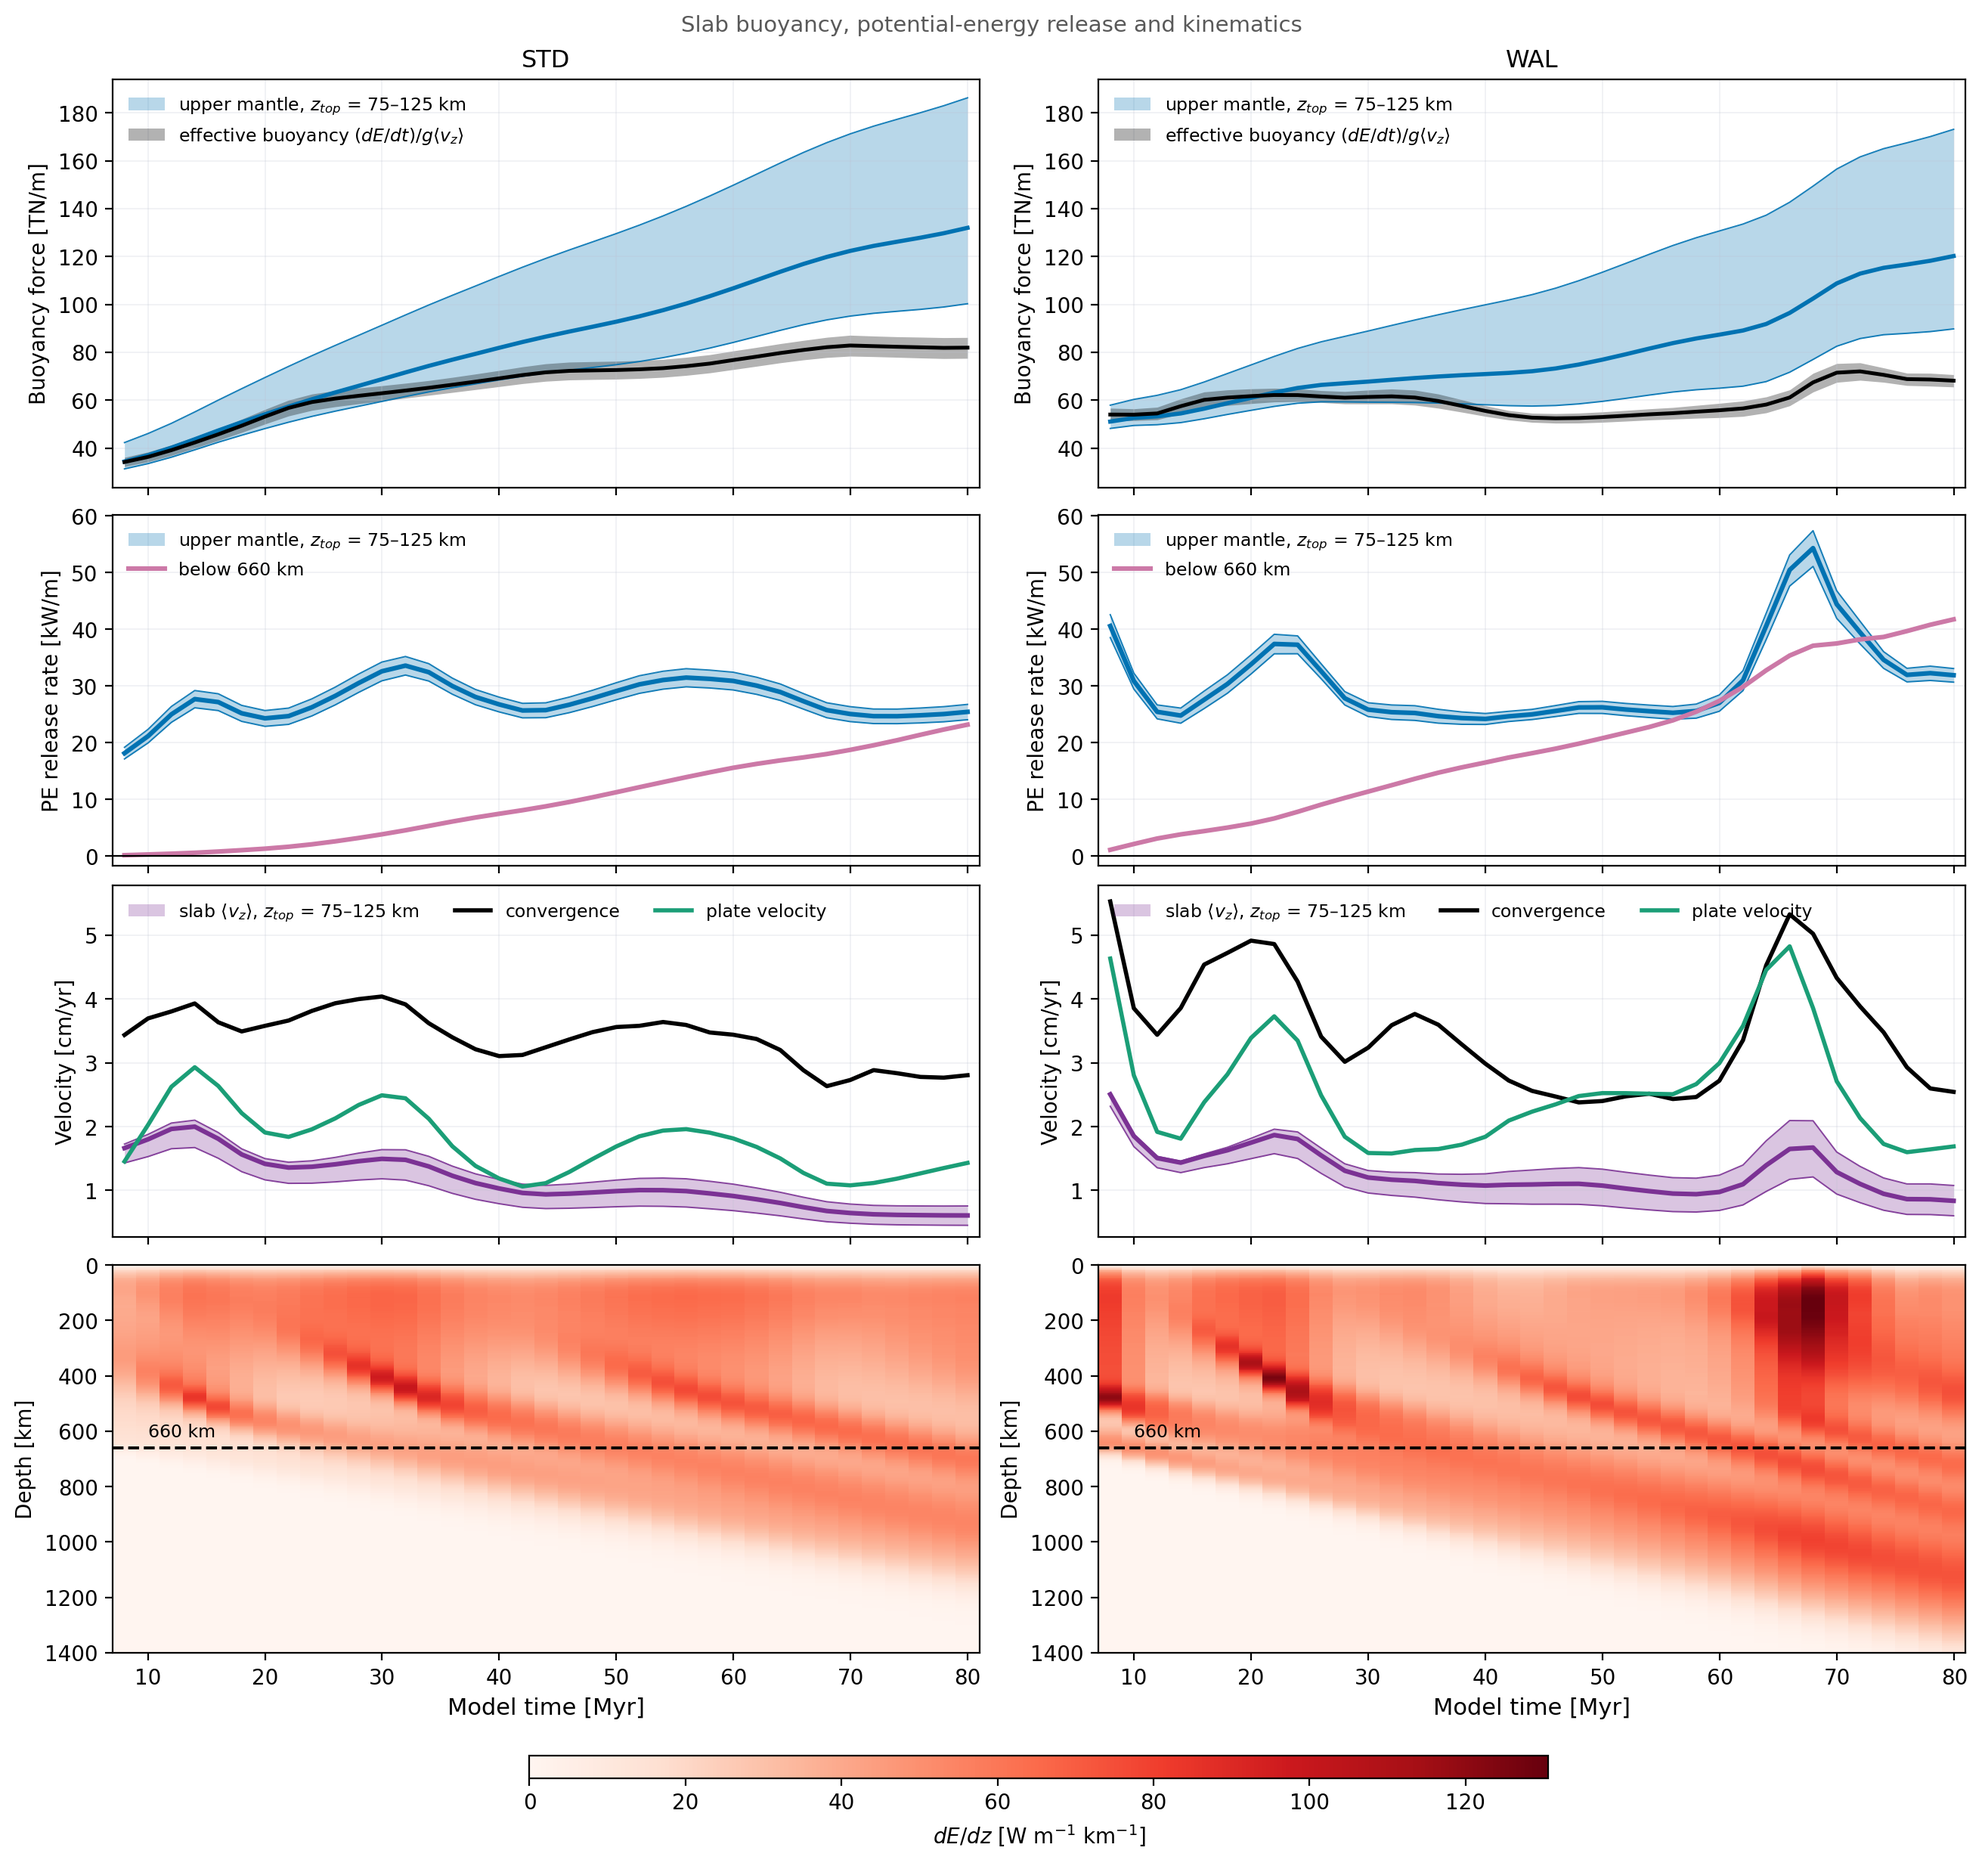
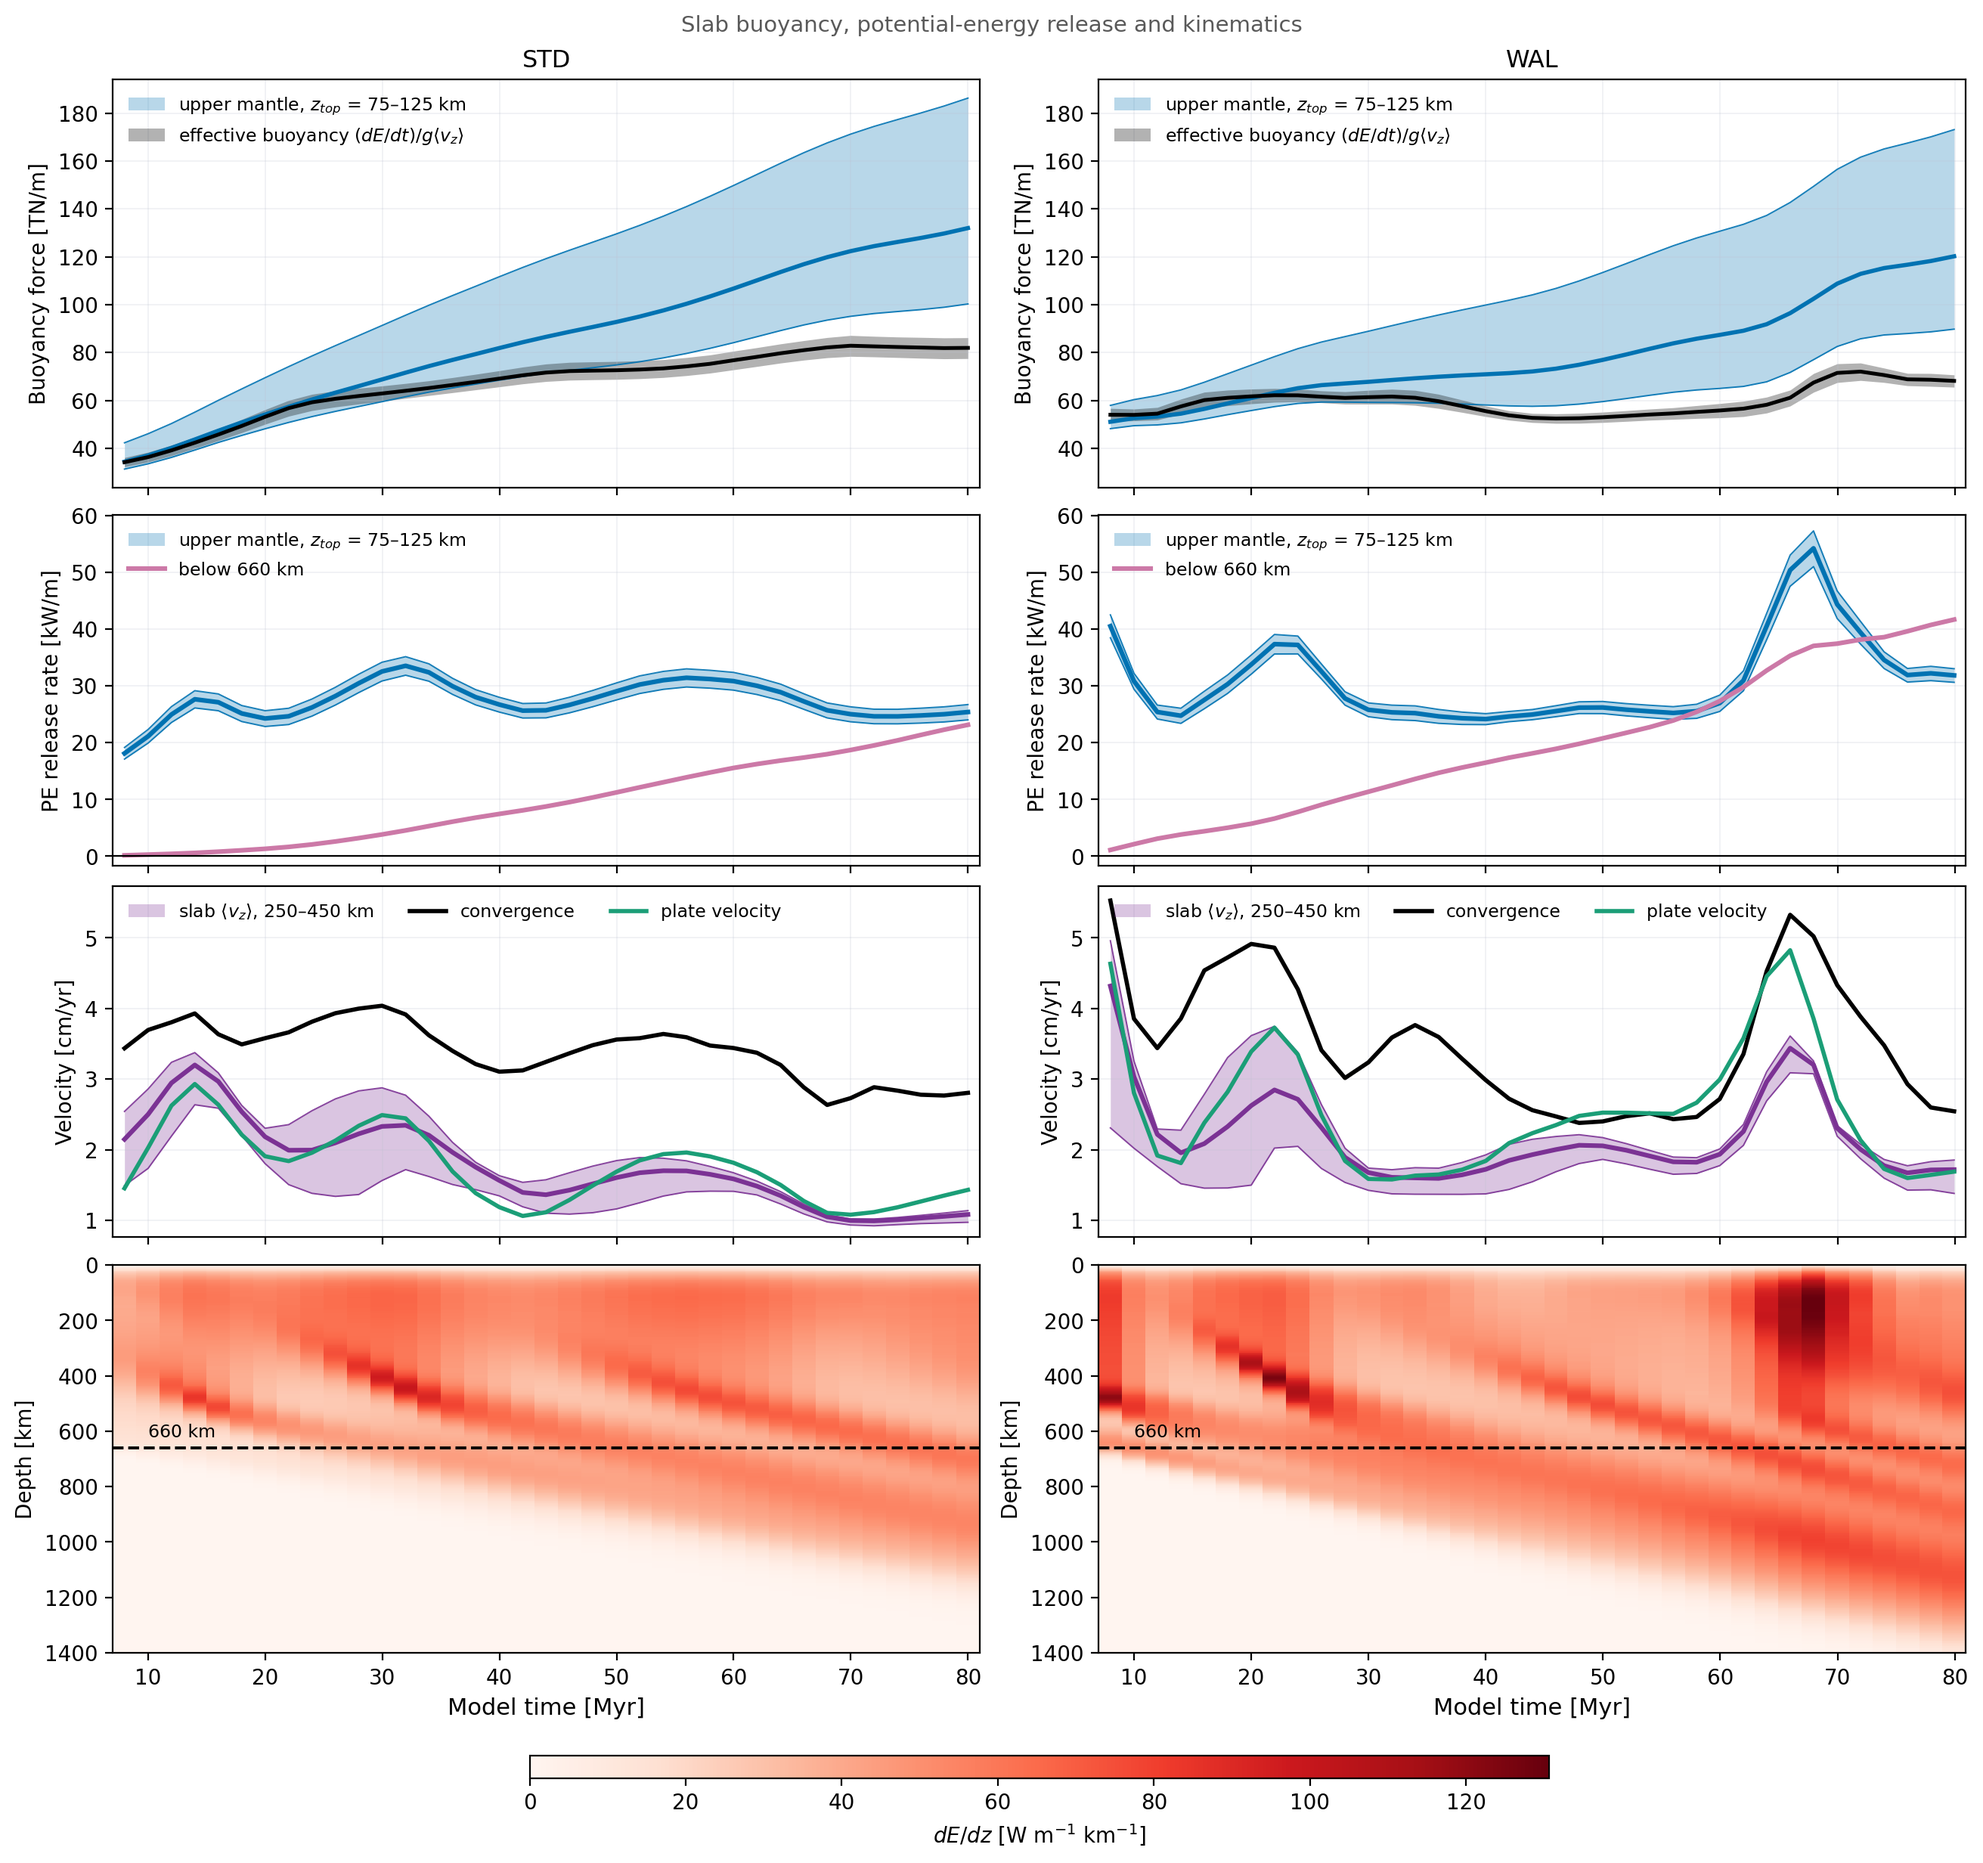
fig_slab_buoyancy_kinematics: mid-upper-mantle sinking rate, not a z_top band
Dan, 2026-09-24. Banding a velocity over z_top measures how much slow
plate material is included, not how fast the slab sinks — the wrong
range scale for the velocity row.

<v_z>(z) peaks at ~330 km in both runs (1.82 STD / 2.08 WAL cm/yr), so
the maximum sits in the mid-upper mantle. The curve is now the
buoyancy-weighted rate over 250-450 km, centred on that maximum, and the
shading is the spread of the per-depth rate ACROSS that interval.

This also encodes Dan's point that the three velocities are not equally
well posed: convergence and plate velocity are defined without any depth
choice and are drawn as plain lines; only the sinking rate carries a
band, and its width IS the depth ambiguity.

Medians: <v_z> 1.67 (STD) / 1.99 (WAL) cm/yr, against plate 1.69 / 2.48
and convergence 3.47 / 3.41.

diff --git a/scripts/fig_slab_buoyancy_kinematics.py b/scripts/fig_slab_buoyancy_kinematics.py
@@ -19,8 +19,14 @@ of the release rate stops being an assertion.
 
   plate velocity   |v_x| averaged over the top 20 km, trench to ridge
   convergence      plate velocity + trench rollback
-  <v_z>            buoyancy-weighted sinking rate over z_top to 660 km,
-                   banded across z_top exactly as rows 1 and 2
+  <v_z>            buoyancy-weighted sinking rate over the MID-UPPER
+                   MANTLE (250-450 km), shaded by the spread of the
+                   per-depth rate across that interval. NOT banded across
+                   z_top: banding a velocity over z_top measures how much
+                   slow plate material is included, not how fast the slab
+                   sinks. <v_z>(z) peaks at ~330 km in both runs (1.82 STD
+                   / 2.08 WAL cm/yr), so the maximum sits in the
+                   mid-upper mantle and the band is centred on it.
 
 Dan's request, 2026-09-24: quantify slab pull as a buoyancy force through
 time, and the rate of potential-energy release with its depth dependence
@@ -145,11 +151,8 @@ curve is shaded: the lower-mantle region is bounded at 660~km and below,
 so it carries no dependence on the upper integration depth. The
 upper-mantle shading spans the same $z_{top}$ range as (a, b) and is
 narrow because the release rate is nearly independent of that choice. (e, f) Plate velocity, convergence rate, and
-the buoyancy-weighted sinking rate over the same upper-mantle interval,
-shaded across the same range of upper integration depths; the release rate
-in (c, d) is the product of the buoyancy in (a, b) and this sinking rate,
-and the two shaded ranges move in opposite senses so that the product is
-nearly invariant. (g, h) Release rate per unit depth against time, with the
+the buoyancy-weighted sinking rate of the slab over the mid-upper mantle
+(250-450 km), shaded by the spread of that rate across the interval. (g, h) Release rate per unit depth against time, with the
 660 km discontinuity marked.
 """
 import os, sys
@@ -170,6 +173,7 @@ G = 9.8
 Z_TOPS = (75e3, 100e3, 125e3)
 Z_660 = 660e3
 REF_BAND = (200e3, 660e3)    # unambiguously slab, for the reference v_z
+VZ_BAND = (250e3, 450e3)     # mid-upper mantle, centred on the <v_z> maximum
 C_UM = '#0072B2'
 C_LM = '#CC79A7'
 C_EFF = 'k'
@@ -270,13 +274,23 @@ def main():
         roll = np.gradient(d[f'{key}_xT'] / 1e3, tc) / 10.0
         n = min(len(t), len(tc))
         assert np.allclose(t[:n], tc[:n], atol=0.3), f'{key}: time axes differ'
-        vzw = np.array([band(E, zt, Z_660) / band(F, zt, Z_660) / CM_S
-                        for zt in Z_TOPS])
-        a2.fill_between(t, vzw[0], vzw[2], color=C_VZ, alpha=0.28, lw=0,
-                        label='slab $\\langle v_z\\rangle$, $z_{top}$ = 75–125 km')
-        for k_ in (0, 2):
-            a2.plot(t, vzw[k_], '-', color=C_VZ, lw=0.7, alpha=0.9)
-        a2.plot(t, vzw[1], '-', color=C_VZ, lw=2.2)
+        # MID-UPPER-MANTLE sinking rate, NOT the z_top-banded integral
+        # (Dan, 2026-09-24): banding a velocity over z_top measures how much
+        # plate is included, not how fast the slab sinks. <v_z>(z) peaks at
+        # ~330 km in both runs -- the maximum lies in the mid-upper mantle --
+        # so the curve is the buoyancy-weighted rate over VZ_BAND and the
+        # shading is the spread of the per-depth rate ACROSS that interval.
+        mid = (z >= VZ_BAND[0]) & (z < VZ_BAND[1])
+        vzm = E[:, mid].sum(1) / F[:, mid].sum(1) / CM_S
+        per = np.where(F[:, mid] > 0, E[:, mid] / np.where(F[:, mid] > 0,
+                                                           F[:, mid], 1), np.nan) / CM_S
+        vlo, vhi = np.nanmin(per, axis=1), np.nanmax(per, axis=1)
+        a2.fill_between(t, vlo, vhi, color=C_VZ, alpha=0.28, lw=0,
+                        label=f'slab $\\langle v_z\\rangle$, '
+                              f'{VZ_BAND[0]/1e3:.0f}–{VZ_BAND[1]/1e3:.0f} km')
+        for y_ in (vlo, vhi):
+            a2.plot(t, y_, '-', color=C_VZ, lw=0.7, alpha=0.9)
+        a2.plot(t, vzm, '-', color=C_VZ, lw=2.2)
         a2.plot(tc[:n], (vp + roll)[:n], '-', color=C_CONV, lw=2.0,
                 label='convergence')
         a2.plot(tc[:n], vp[:n], '-', color=C_PLATE, lw=2.0,
@@ -284,11 +298,12 @@ def main():
         a2.set_ylabel('Velocity [cm/yr]', fontsize=10)
         a2.legend(frameon=False, fontsize=8.5, loc='upper left', ncol=3)
         a2.grid(alpha=0.25, color=C_RULE, lw=0.6)
-        print(f'   <v_z> over z_top 75->125 km: {np.median(vzw[0]):.2f} -> '
-              f'{np.median(vzw[2]):.2f} cm/yr (+{100*(np.median(vzw[2])/np.median(vzw[0])-1):.0f} %)'
+        print(f'   <v_z> {VZ_BAND[0]/1e3:.0f}-{VZ_BAND[1]/1e3:.0f} km: '
+              f'{np.median(vzm):.2f} cm/yr [{vzm.min():.2f}-{vzm.max():.2f}]'
               f'   plate {np.median(vp):.2f}  convergence {np.median(vp+roll):.2f} cm/yr')
-        rows += [(key, 'vz_weighted_ztop75_median_cmyr', f'{np.median(vzw[0]):.3f}'),
-                 (key, 'vz_weighted_ztop125_median_cmyr', f'{np.median(vzw[2]):.3f}'),
+        rows += [(key, 'vz_mid_upper_median_cmyr', f'{np.median(vzm):.3f}'),
+                 (key, 'vz_mid_upper_min_cmyr', f'{vzm.min():.3f}'),
+                 (key, 'vz_mid_upper_max_cmyr', f'{vzm.max():.3f}'),
                  (key, 'plate_velocity_median_cmyr', f'{np.median(vp):.3f}'),
                  (key, 'convergence_median_cmyr', f'{np.median(vp + roll):.3f}')]
 
